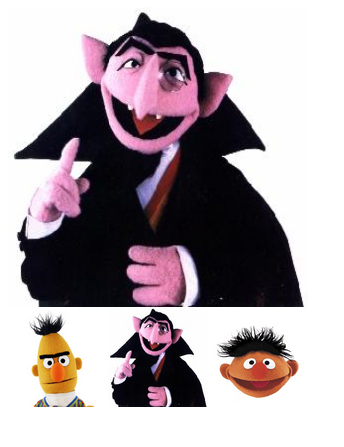
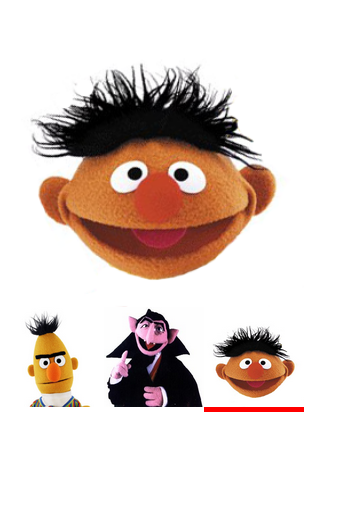
screenshot and readme update

diff --git a/ImgSelect/main.html b/ImgSelect/main.html
@@ -7,9 +7,15 @@
 <style type="text/css">
 .container{height:400px;width:300px;float:;}
 .mainImg{height:300px;width:300px;float:;}
+
 .sub-img-a{height:100px;width:100px;float:left;}
+
+
 .sub-img-b{height:100px;width:100px;float:left;border:5px;}
+
+
 .sub-img-c{height:100px;width:100px;float:left;border:5px;}
+
 a:hover{border-radius: 1px solid black;}
 </style>
 
@@ -17,7 +23,7 @@ a:hover{border-radius: 1px solid black;}
 
 <div class="container">
 
-<a href=""><div class="mainImg"><img src="profile-placeholder.png" class="mainImg" id="big" alt="Main Picture"></div></a>
+<a href=""><div class="mainImg"><img src="loading-buffering.gif" class="mainImg" id="big" alt="Main Picture"></div></a>
 <a href="#" onclick="a();"><div class="sub-img-a"><img src="bert.jpg" id="a" class="sub-img-a" alt=""></div></a>
 <a href="#" onclick="b();"><div class="sub-img-b"><img src="count.jpg" id="b" class="sub-img-b" alt=""></div></a>
 <a href="#" onclick="c();"><div class="sub-img-c"><img src="ernie.png" id="c" class="sub-img-c" alt=""></div></a>
@@ -25,21 +31,31 @@ a:hover{border-radius: 1px solid black;}
 </div>
 
 <script type="text/javascript" >
-function big() {
 
-	
-}
+let ImgTarget=document.getElementById("big");
+let ImgTargetA=document.getElementById("a");
+let ImgTargetB=document.getElementById("b");
+let ImgTargetC=document.getElementById("c");
 
 function a() {
-	document.getElementById("big").src = document.getElementById("a").src;
+	ImgTarget.src = document.getElementById("a").src;
+	ImgTargetA.style.borderBottom="5px solid red"
+	ImgTargetB.style.borderBottom="5px solid transparent"
+	ImgTargetC.style.borderBottom="5px solid transparent"
 }
 
 function b() {
-		document.getElementById("big").src = document.getElementById("b").src;
+		ImgTarget.src = document.getElementById("b").src;
+		ImgTargetA.style.borderBottom="5px solid transparent"
+		ImgTargetB.style.borderBottom= "5px solid red"
+		ImgTargetC.style.borderBottom="5px solid transparent"
 }
 
 function c() {
-		document.getElementById("big").src = document.getElementById("c").src;
+		ImgTarget.src = document.getElementById("c").src;
+		ImgTargetA.style.borderBottom="5px solid transparent"
+		ImgTargetB.style.borderBottom="5px solid transparent"
+		ImgTargetC.style.borderBottom="5px solid red"
 }
 </script>
 
